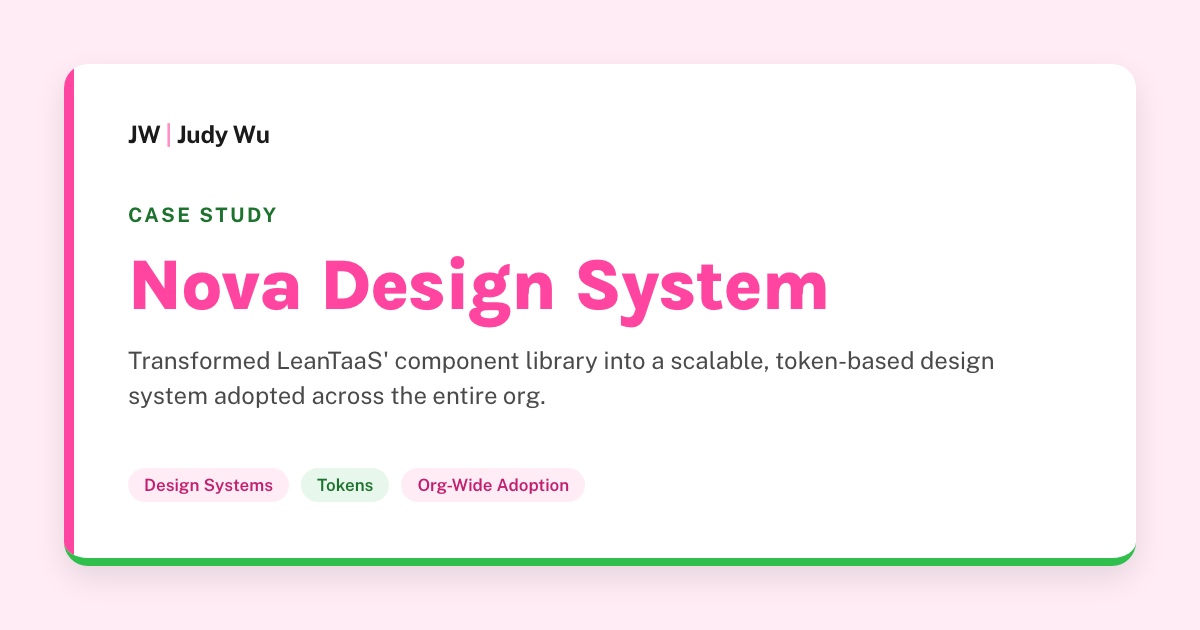
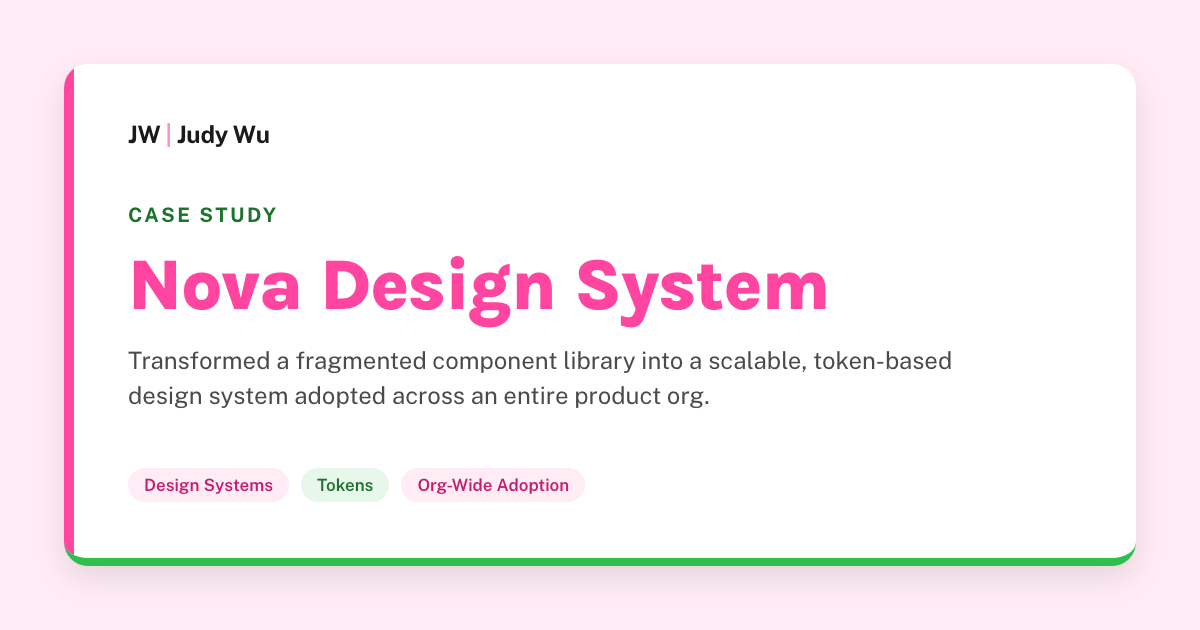
Remove all client references from case studies (NDA)
The repo and the StaticCrypt unlock pages are both public, so the client's name
was readable in several places without a password.

Removed:
- The outbound client link on the Nova case study (the original report)
- <h1>LeanTaaS</h1> on all four PUBLIC gate pages — visible and indexable with
  no password, and by far the most prominent exposure. The shared template now
  ships a neutral placeholder and apply-meta.py injects each page's own project
  name, which is already public on /portfolio/
- Client name from /projects/nova/'s public meta description, og/twitter
  descriptions and image alts, and from the landing-page card copy
- Client name baked into assets/og/nova.png (regenerated)
- assets/images/leantaas-device.png -> platform-device.png; the filename was a
  public URL on four cards
- 12 in-copy references across the four decrypted case-study sources, rephrased
  generically ("a fragmented component library", "when I joined")
- The five pre-rename redirect aliases and their route tests — the old slugs
  named the client and 404.html is public. Those URLs were never shared
  externally, so recovery value was nil
- Code comments in style.css, apply-meta.py, robots.txt and the README

Kept: the résumé, where naming the employer is intended.

Also fixes a pipeline bug the gate verifier caught: encrypt.sh decided whether
to re-encrypt by comparing mtimes, but apply-meta.py rewrites the output file
[…]

Changed region(s): [[0.0925, 0.5429, 0.8325, 0.6635]]

diff --git a/projects/nova-to-claude/index.html b/projects/nova-to-claude/index.html
@@ -83,7 +83,7 @@
           </svg>
 
           <p class="project-cat-label">HealthTech · Design Systems</p>
-          <h1>LeanTaaS</h1>
+          <h1 data-gate-title>Nova Design System: Figma to Claude Code</h1>
           <p class="gate-message">This case study is protected under NDA. Enter the password to continue, or reach out and I'll send you the password if you need it.</p>
 
           <form class="gate-form" id="staticrypt-form" action="#" method="post" autocomplete="off">
@@ -712,7 +712,7 @@ exports.init = init;
   return exports;
 })());
     const templateError = "Incorrect password. Try again.",
[2 lines of base64/hex data omitted]
 
     const templateConfig = {
         rememberExpirationKey: "staticrypt_expiration",

diff --git a/projects/nova/index.html b/projects/nova/index.html
@@ -6,25 +6,25 @@
   <link rel="icon" href="/favicon.ico">
   <title>Nova Design System — Judy Wu</title>
   <!-- SEO / social — generated from scripts/page-meta.json; edit there, not here -->
-  <meta name="description" content="Transformed LeanTaaS' component library into a scalable, token-based design system adopted across the entire org. Password-protected case study.">
+  <meta name="description" content="Transformed a fragmented component library into a scalable, token-based design system adopted across an entire product org. Password-protected case study.">
   <link rel="canonical" href="https://judylhwu-work.github.io/projects/nova/">
   <meta name="author" content="Judy Wu">
 
   <meta property="og:type" content="website">
   <meta property="og:site_name" content="Judy Wu">
   <meta property="og:title" content="Nova Design System — Judy Wu">
-  <meta property="og:description" content="Transformed LeanTaaS' component library into a scalable, token-based design system adopted across the entire org. Password-protected case study.">
+  <meta property="og:description" content="Transformed a fragmented component library into a scalable, token-based design system adopted across an entire product org. Password-protected case study.">
   <meta property="og:url" content="https://judylhwu-work.github.io/projects/nova/">
   <meta property="og:image" content="https://judylhwu-work.github.io/assets/og/nova.png">
   <meta property="og:image:width" content="1200">
   <meta property="og:image:height" content="630">
-  <meta property="og:image:alt" content="Nova Design System case study — token-based design system at LeanTaaS">
+  <meta property="og:image:alt" content="Nova Design System case study — a token-based design system adopted org-wide">
 
   <meta name="twitter:card" content="summary_large_image">
   <meta name="twitter:title" content="Nova Design System — Judy Wu">
-  <meta name="twitter:description" content="Transformed LeanTaaS' component library into a scalable, token-based design system adopted across the entire org. Password-protected case study.">
+  <meta name="twitter:description" content="Transformed a fragmented component library into a scalable, token-based design system adopted across an entire product org. Password-protected case study.">
   <meta name="twitter:image" content="https://judylhwu-work.github.io/assets/og/nova.png">
-  <meta name="twitter:image:alt" content="Nova Design System case study — token-based design system at LeanTaaS">
+  <meta name="twitter:image:alt" content="Nova Design System case study — a token-based design system adopted org-wide">
   <!-- /SEO -->
 
   <!-- do not cache the encrypted shell -->
@@ -83,7 +83,7 @@
           </svg>
 
           <p class="project-cat-label">HealthTech · Design Systems</p>
-          <h1>LeanTaaS</h1>
+          <h1 data-gate-title>Nova Design System</h1>
           <p class="gate-message">This case study is protected under NDA. Enter the password to continue, or reach out and I'll send you the password if you need it.</p>
 
           <form class="gate-form" id="staticrypt-form" action="#" method="post" autocomplete="off">
@@ -712,7 +712,7 @@ exports.init = init;
   return exports;
 })());
     const templateError = "Incorrect password. Try again.",
[2 lines of base64/hex data omitted]
 
     const templateConfig = {
         rememberExpirationKey: "staticrypt_expiration",

diff --git a/projects/definitions/index.html b/projects/definitions/index.html
@@ -83,7 +83,7 @@
           </svg>
 
           <p class="project-cat-label">HealthTech · Design Systems</p>
-          <h1>LeanTaaS</h1>
+          <h1 data-gate-title>Definitions</h1>
           <p class="gate-message">This case study is protected under NDA. Enter the password to continue, or reach out and I'll send you the password if you need it.</p>
 
           <form class="gate-form" id="staticrypt-form" action="#" method="post" autocomplete="off">
@@ -712,7 +712,7 @@ exports.init = init;
   return exports;
 })());
     const templateError = "Incorrect password. Try again.",
[2 lines of base64/hex data omitted]
 
     const templateConfig = {
         rememberExpirationKey: "staticrypt_expiration",

diff --git a/projects/smart-huddles/index.html b/projects/smart-huddles/index.html
@@ -83,7 +83,7 @@
           </svg>
 
           <p class="project-cat-label">HealthTech · Design Systems</p>
-          <h1>LeanTaaS</h1>
+          <h1 data-gate-title>Smart Huddles</h1>
           <p class="gate-message">This case study is protected under NDA. Enter the password to continue, or reach out and I'll send you the password if you need it.</p>
 
           <form class="gate-form" id="staticrypt-form" action="#" method="post" autocomplete="off">
@@ -712,7 +712,7 @@ exports.init = init;
   return exports;
 })());
     const templateError = "Incorrect password. Try again.",
[2 lines of base64/hex data omitted]
 
     const templateConfig = {
         rememberExpirationKey: "staticrypt_expiration",

diff --git a/portfolio/index.html b/portfolio/index.html
@@ -92,7 +92,7 @@
             </div>
             <div class="project-card-right">
               <span class="sn-badge sn-badge-warning card-status-badge">Under Construction</span>
-              <img src="/assets/images/leantaas-device.png" alt="">
+              <img src="/assets/images/platform-device.png" alt="">
             </div>
           </a>
 
@@ -112,7 +112,7 @@
             </div>
             <div class="project-card-right">
               <span class="sn-badge sn-badge-warning card-status-badge">Under Construction</span>
-              <img src="/assets/images/leantaas-device.png" alt="">
+              <img src="/assets/images/platform-device.png" alt="">
             </div>
           </a>
 
@@ -128,11 +128,11 @@
                   </div>
                 </div>
               </div>
-              <p class="card-desc">Transformed LeanTaaS' component library into a scalable, token-based design system adopted across the entire org.</p>
+              <p class="card-desc">Transformed a fragmented component library into a scalable, token-based design system adopted across the entire org.</p>
             </div>
             <div class="project-card-right">
               <span class="sn-badge sn-badge-warning card-status-badge">Under Construction</span>
-              <img src="/assets/images/leantaas-device.png" alt="">
+              <img src="/assets/images/platform-device.png" alt="">
             </div>
           </a>
 
@@ -152,7 +152,7 @@
             </div>
             <div class="project-card-right">
               <span class="sn-badge sn-badge-warning card-status-badge">Under Construction</span>
-              <img src="/assets/images/leantaas-device.png" alt="">
+              <img src="/assets/images/platform-device.png" alt="">
             </div>
           </a>
 

diff --git a/scripts/verify-gates.js b/scripts/verify-gates.js
@@ -19,7 +19,14 @@ const codec = require(path.join(ROOT, "node_modules/staticrypt/lib/codec.js"));
 const cryptoEngine = require(path.join(ROOT, "node_modules/staticrypt/lib/cryptoEngine.js"));
 const { decode } = codec.init(cryptoEngine);
 
-const SLUGS = ["nova", "smart-huddles", "definitions", "nova-to-claude"];
+const ALL_SLUGS = ["nova", "smart-huddles", "definitions", "nova-to-claude"];
+
+// `--quiet <slug>` makes this usable as a predicate: exit 0 only if that page
+// decrypts to its current source. encrypt.sh uses it to decide re-encryption,
+// which is exact where an mtime comparison was not.
+const QUIET = process.argv.includes("--quiet");
+const ARG_SLUGS = process.argv.slice(2).filter((a) => !a.startsWith("--"));
+const SLUGS = ARG_SLUGS.length ? ARG_SLUGS : ALL_SLUGS;
 
 function password() {
   if (process.env.STATICRYPT_PASSWORD) return process.env.STATICRYPT_PASSWORD;
@@ -59,10 +66,12 @@ function extractConfig(html) {
     if (!res.success) { console.log(`  FAIL ${slug}: decrypt failed (${res.message})`); ok = false; continue; }
 
     const matches = fs.existsSync(srcPath) && res.decoded === fs.readFileSync(srcPath, "utf8");
-    console.log(`  ${matches ? "ok  " : "WARN"} ${slug}: decrypts (${res.decoded.length} bytes)` +
+    if (!QUIET) console.log(`  ${matches ? "ok  " : "WARN"} ${slug}: decrypts (${res.decoded.length} bytes)` +
                 (matches ? ", matches private source" : ", but does NOT match private source"));
     if (!matches) ok = false;
   }
+
+  if (QUIET) process.exit(ok ? 0 : 1);
 
   // A wrong password must still be rejected.
   const cfg = extractConfig(fs.readFileSync(path.join(ROOT, "projects/nova/index.html"), "utf8"));

diff --git a/scripts/test-404-routes.js b/scripts/test-404-routes.js
@@ -40,11 +40,8 @@ const cases = [
   ['/projects/smat-huddles/',            '/projects/smart-huddles/'],
   ['/projects/smart-hudles/',            '/projects/smart-huddles/'],
   ['/projects/smarthuddles/',            '/projects/smart-huddles/'],
-  // renamed URLs
-  ['/projects/leantaas/',                '/projects/nova/'],
-  ['/projects/leantaas-cof/',            '/projects/definitions/'],
-  ['/projects/leantaas-smart-huddles/',  '/projects/smart-huddles/'],
-  ['/projects/leantaas-nova-to-claude/', '/projects/nova-to-claude/'],
+  // renamed URLs (the pre-rename NDA case-study aliases were removed on purpose —
+  // they named the client and this repo is public)
   ['/work.html',                         '/portfolio/'],
   ['/experience',                        '/resume/'],
   // ordinary typos

diff --git a/404.html b/404.html
@@ -94,11 +94,6 @@
     "/about.html": "/about/",
     "/home": "/portfolio/",
     "/index.html": "/portfolio/",
-    "/projects/leantaas": "/projects/nova/",
-    "/projects/leantaas-cof": "/projects/definitions/",
-    "/projects/leantaas-smart-huddles": "/projects/smart-huddles/",
-    "/projects/leantaas-nova-to-claude": "/projects/nova-to-claude/",
-    "/projects/leantaas-gate": "/portfolio/",
     "/projects/bark": "/projects/bark-app/",
     "/projects/bark-app.html": "/projects/bark-app/"
   },

diff --git a/scripts/staticrypt-template.html b/scripts/staticrypt-template.html
@@ -62,7 +62,7 @@
           </svg>
 
           <p class="project-cat-label">HealthTech · Design Systems</p>
-          <h1>LeanTaaS</h1>
+          <h1 data-gate-title>Protected case study</h1>
           <p class="gate-message">This case study is protected under NDA. Enter the password to continue, or reach out and I'll send you the password if you need it.</p>
 
           <form class="gate-form" id="staticrypt-form" action="#" method="post" autocomplete="off">

diff --git a/style.css b/style.css
@@ -509,7 +509,7 @@ main {
 }
 
 /* Stacks a status badge (e.g. "Under Construction") on its own line above
-   the title row — used for in-progress LeanTaaS case studies. */
+   the title row — used for in-progress NDA case studies. */
 .card-badge-stack {
   display: flex;
   flex-direction: column;

diff --git a/scripts/apply-meta.py b/scripts/apply-meta.py
@@ -84,6 +84,15 @@ def apply(rel, info):
                          m.group(0), flags=re.DOTALL),
         html, count=1)
 
+    # The StaticCrypt gate is public — no password needed to read it — so its
+    # heading must not name the client. The template ships a neutral placeholder
+    # and each page gets its own project name here.
+    html = re.sub(
+        r"<h1 data-gate-title>.*?</h1>",
+        '<h1 data-gate-title>%s</h1>' % esc(info["title"].replace(" — Judy Wu", "").strip()),
+        html, count=1, flags=re.DOTALL,
+    )
+
     if BLOCK_RE.search(html):
         new = BLOCK_RE.sub(lambda _: block, html, count=1)
     else:
@@ -178,7 +187,7 @@ def write_site_files():
         "User-agent: *\n"
         "Allow: /\n"
         "\n"
-        "# The LeanTaaS case studies are encrypted; only the unlock page is\n"
+        "# The NDA case studies are encrypted; only the unlock page is\n"
         "# crawlable, which is intended — it carries the title and share card.\n"
         "\n"
         f"Sitemap: {ORIGIN}/sitemap.xml\n"

diff --git a/README.md b/README.md
@@ -56,7 +56,7 @@ Then visit `http://localhost:8000/portfolio/`. Serve **this** directory (not a p
 
 ## Notes
 
-- The LeanTaaS case studies are NDA-protected with real client-side **encryption** (StaticCrypt) — see [NDA-protected case studies](#nda-protected-case-studies) below.
+- Four case studies are NDA-protected with real client-side **encryption** (StaticCrypt) — see [NDA-protected case studies](#nda-protected-case-studies) below.
 - Dark mode is a `data-theme="dark"` attribute on `<html>`, toggled by `theme.js` and persisted in `localStorage`.
 
 ## SEO & social meta
@@ -79,7 +79,7 @@ Share cards in `assets/og/` are 1200x630 PNGs rendered from an HTML template via
 GitHub Pages has no server-side rewrites, so a renamed or mistyped URL can only be
 recovered on the client. `404.html` carries a small router that, in order:
 
-1. matches an **exact alias** — a URL we know was renamed (`/work.html`, `/projects/leantaas/`)
+1. matches an **exact alias** — a URL we know was renamed (e.g. `/work.html` → `/portfolio/`)
 2. matches an **exact route** differing only in case, trailing slash or `.html`
 3. **fuzzy-matches** the slug (Levenshtein, plus a prefix bonus so a truncated
    `/projects/nova-to/` resolves to `nova-to-claude` rather than `nova`)
@@ -99,7 +99,7 @@ node scripts/test-404-routes.js   # runs the real router from 404.html
 
 ## NDA-protected case studies
 
-The four LeanTaaS case studies (`nova`, `smart-huddles`, `definitions`, `nova-to-claude`) are **encrypted** with [StaticCrypt](https://github.com/robinmoisson/staticrypt), not just visually gated. Only ciphertext is ever served or committed — the readable content never reaches GitHub.
+The four NDA case studies (`nova`, `smart-huddles`, `definitions`, `nova-to-claude`) are **encrypted** with [StaticCrypt](https://github.com/robinmoisson/staticrypt), not just visually gated. Only ciphertext is ever served or committed — the readable content never reaches GitHub.
 
 **How it fits together**
 
@@ -118,5 +118,12 @@ So one `git commit` both **publishes** (encrypted, public repo) and **backs up**
 **Verifying the gate:** `node scripts/verify-gates.js` confirms all four pages still decrypt to their plaintext source and that a wrong password is rejected. Run it after touching the template, `encrypt.sh`, or the meta pipeline.
 
 **First-time setup on a new machine:** `npm install`; clone the private source into place with `git clone git@github.com:judylhwu-work/portfolio-private-source.git private`; then `git config core.hooksPath .githooks`.
+
+**Do not name the client.** This repo is public, and so is the StaticCrypt unlock
+page — its heading, `<title>`, and meta are readable without the password. Keep the
+client's name out of case-study copy, page meta, share cards, asset filenames, code
+comments, and redirect aliases. The résumé is the one intentional exception. When
+adding a protected case study, describe the employer generically ("a health-tech
+product org"), and remember `assets/og/*.png` bakes text into an image.
 
 **Caveats:** security is bounded by password strength (encrypted files can be brute-forced offline), and once decrypted the content can be re-shared. This stops casual decoding, scraping, and source-on-GitHub exposure — it is not airtight access control.
